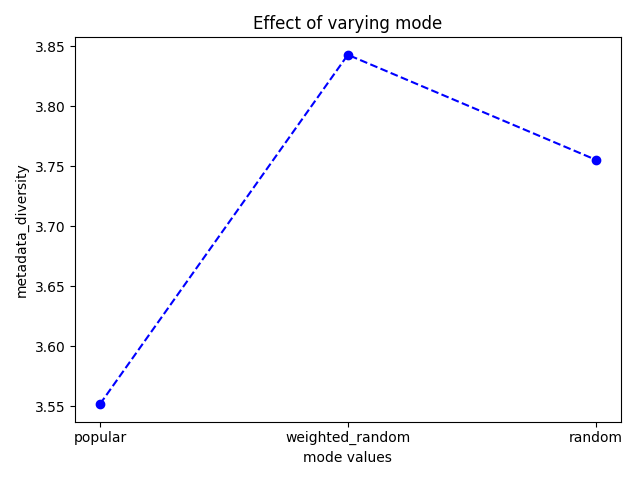
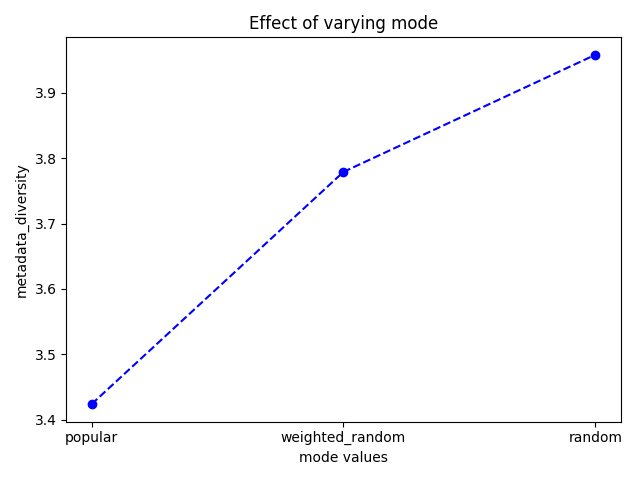
Add updddated line search graphs

diff --git a/hparam_line_search.py b/hparam_line_search.py
@@ -34,12 +34,12 @@ if __name__ == '__main__':
     }
 
     default_vals = {
-        'k': 35,
+        'k': 150,
         'max_overlap': 0.1,
         'knn_frac': 0.5,
         'min_songs': 5,
         'cf_weighting_alpha': 1,
-        'mode': 'random'
+        'mode': 'popular'
     }
 
     metrics_to_get = [
